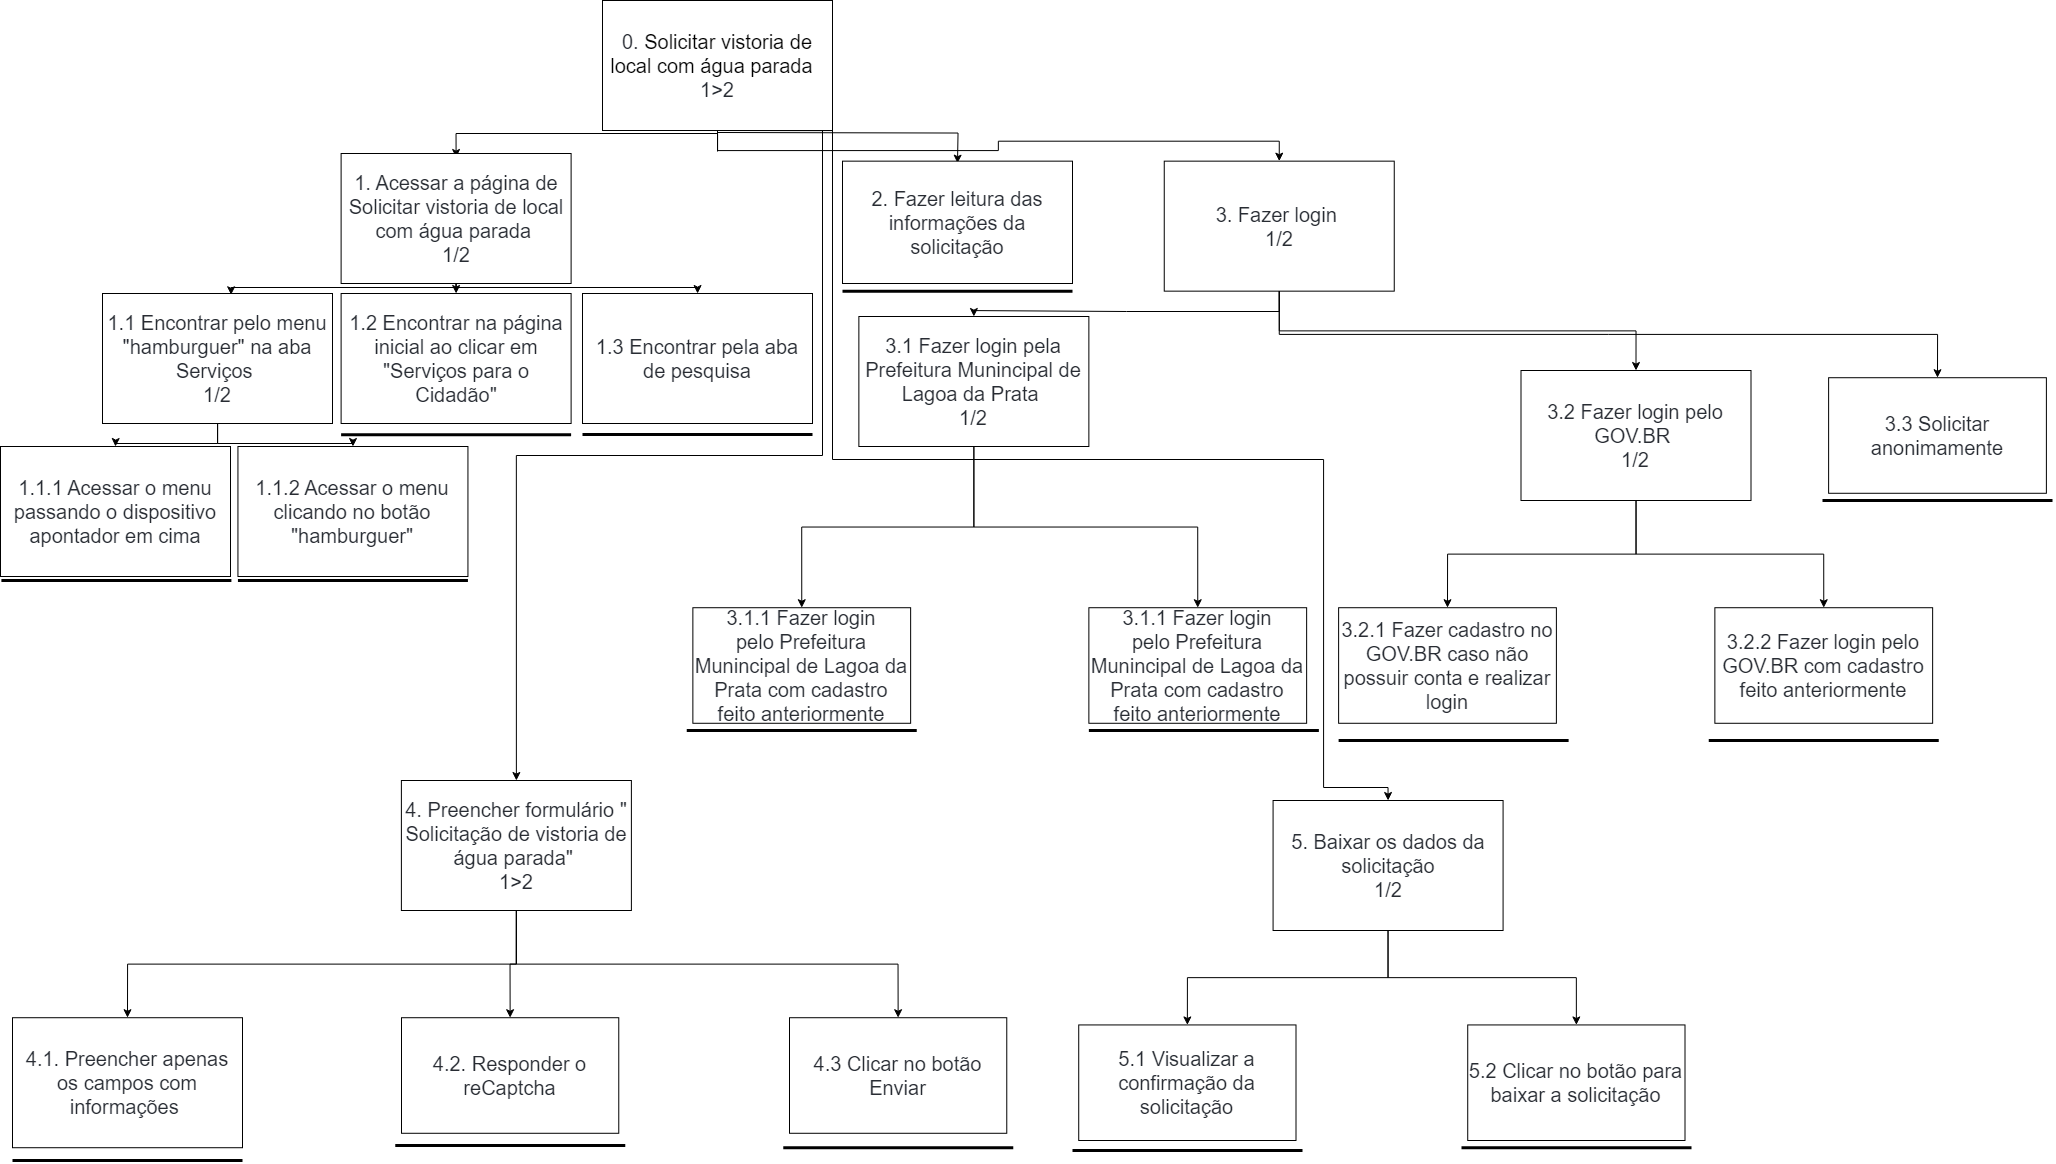
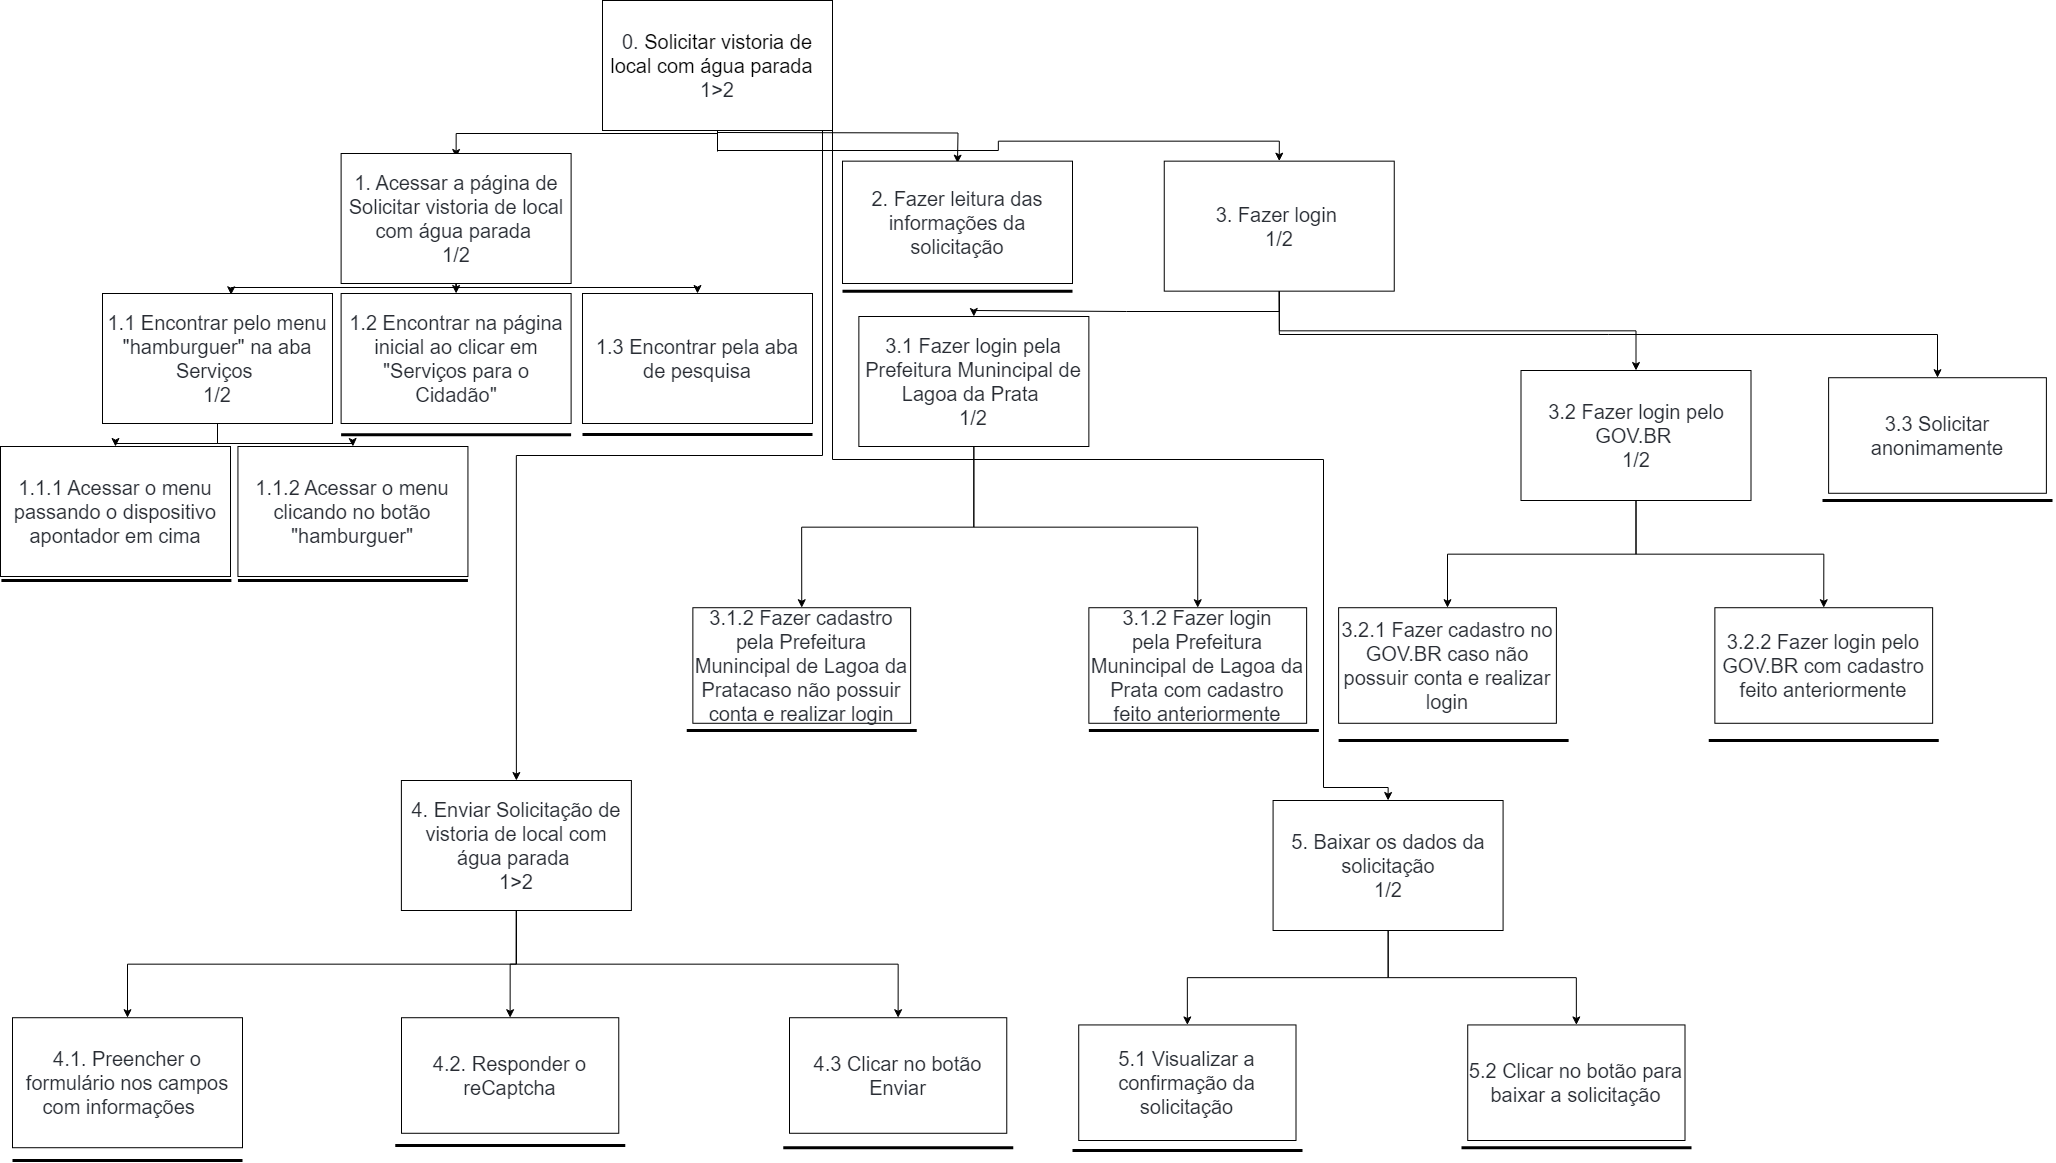
tabela HTA 6 completa

diff --git a/docs/requisitos1/analise-tarefas.md b/docs/requisitos1/analise-tarefas.md
@@ -211,9 +211,31 @@ tarefas que podem ser associadas às personas declaradas. A forma da AHT será u
 ### Análise da Tarefa HTA 6: Solicitar vistoria de local com água parada
 Abaixo se encontra tanto a tabela e diagrama HTA relacionado a Solicitar vistoria de local com água parada, ambos foram elaborados levando em consideração a [persona Maria Arlete](/requisitos1/personas/#maria-arlete) e o [cenario C03](/requisitos1/cenarios/#c03-solicitar-vistoria-de-local-com-agua-parada).
 
-| Objetivos / Operações                                  | Relações | Problemas / Recomendações                                                                                                                                                                                                                                                          |
-| ------------------------------------------------------ | -------- | ---------------------------------------------------------------------------------------------------------------------------------------------------------------------------------------------------------------------------------------------------------------------------------- |
-| 0. Registrar e verificar o panorama de saúde da cidade | 1 > 2    | Input: Acesso ao site de Lagoa da Prata, Credenciais de login (usuário e senha). <br> Plano: Realizar login no site, Navegar para a página de estado de saúde, Registrar estado de saúde, Verificar panorama de saúde da cidade. <br> Feedback: Status do estado de saúde emitido. |
+| Objetivos / Operações                                                                                      | Relações | Problemas / Recomendações                                                                                                                                                                                                                                                                                                               |
+| ---------------------------------------------------------------------------------------------------------- | -------- | --------------------------------------------------------------------------------------------------------------------------------------------------------------------------------------------------------------------------------------------------------------------------------------------------------------------------------------- |
+| **0. Solicitar vistoria de local com água parada**                                                         | 1 > 2    | **input:** formulário de solicitação de vistoria <br> **plano:** acessar a página; ler as informações de uma solicitação; escolher forma de login; enviar a solicitação; baixar a solicitação <br> **feedback:** Nova solicitação aparece aparece para a Secretária de Saúde na lista de solicitações de vistoria de água parada como pendente <br> **recomendação:** status da vistoria ser disponbilizada para pessoa que realizou login e em uma pagina mostrando todas as vistorias realizadas.                                                                                                                                                                                                                                                                                                                                      |
+| **1. Acessar a página de Solicitar vistoria de local com água parada**                                     | 1 / 2    | **ação:** Acessar o menu "hamburguer" ou acessar o menu "serviços para o Cidadão" ou pesquisar na aba de pesquisas                                                                                                                                                                                                                                                                                                                                      |
+| 1.1 Encontrar pelo menu "hamburguer" na aba Serviços                                                       | 1 / 2    | **ação:** Passar o dispositivo apontador por cima do botão para abrir o menu suspenso; ou Clicar no botão para ele abrir                                                                                                                                                                                                                                                                                                                                         |
+| 1.1.1 Acessar o menu passando o dispositivo apontador em cima                                              |          |                                                                                                                                                                                                                                                                                                                                         |
+| 1.1.2 Acessar o menu clicando no botão "hamburguer"                                                        |          |                                                                                                                                                                                                                                                                                                                                         |
+| 1.2 Encontrar na página inicial ao clicar em "Serviços para o Cidadão"                                     |          |                                                                                                                                                                                                                                                                                                                                         |
+| 1.3 Encontrar pela aba de pesquisa                                                                         |          |                                                                                                                                                                                                                                                                                                                                         |
+| **2. Fazer leitura das informações da solicitação**                                                        |          |                                                                                                                                                                                                                                                                                                                                         |
+| **3. Fazer login**                                                                                         | 1 / 2    | **plano:** Login pelo GOV.BR informar CPF e senha ou login pela Prefeitura Munincipal de Lagoa da Prata informar cpf/cnpj/email e senha                                                                                                                                                                                                   |
+| 3.1 Fazer login pela Prefeitura Munincipal de Lagoa da Prata                                               | 1 / 2    | **plano:** Realizar cadastro informando: email, senha, nome completo, CPF, confirmar a declaração da veracidade dos dados; ou realizar login informando CPF ou email e senha                                                                                                                                                                                                                                                                                                                                       |
+| *3.1.1 Fazer login pelo Prefeitura Munincipal de Lagoa da Prata com cadastro feito anteriormente*          |          |                                                                                                                                                                                                                                                                                                                                         |
+| *3.1.2 Fazer cadastro pela Prefeitura Munincipal de Lagoa da Pratacaso não possuir conta e realizar login* |          |                                                                                                                                                                                                                                                                                                                                         |
+| 3.2 Fazer login pelo GOV.BR                                                                                | 1 / 2    |  **plano:** Realizar cadastro informando CPF, realizando HCaptcha, escolher um banco para realizar login; ou Realizar login informando CPF e senha.                                                                                                                                                                                                                                                                                                                                       |
+| *3.2.1 Fazer cadastro no GOV.BR caso não possuir conta e realizar login*                                   |          |                                                                                                                                                                                                                                                                                                                                         |
+| *3.2.2 Fazer login pelo GOV.BR com cadastro feito anteriormente*                                           |          |                                                                                                                                                                                                                                                                                                                                         |
+| 3.3 Solicitar anonimamente                                                                                 |          |                                                                                                                                                                                                                                                                                                                                         |
+| **4. Enviar Solicitação de vistoria de local com água parada**                                             | 1 > 2    | **input:** Preencher os campos: logradouro, número, complemento, CEP, descrição; Selecionar qual tipo de ímovel: residencial, abandonado, desocupado, público, terreno baldio murado, terreo baldio não murado, ferro velho, borracharia, desmanche, recicladoras, cemitérios, obras, parques ou praças, outros; Clicar no botão enviar |
+| 4.1. Preencher o formulário nos campos com informações                                                     |          |                                                                                                                                                                                                                                                                                                                                         |
+| 4.2. Responder o reCaptcha                                                                                 |          |                                                                                                                                                                                                                                                                                                                                         |
+| 4.3 Clicar no botão Enviar                                                                                 |          |                                                                                                                                                                                                                                                                                                                                         |
+| **5. Baixar os dados da solicitação**                                                                      | 1 / 2    | **plano:** Visualizar a solicitação, logo depois baixar a solicitação                                                                                                                                                                                                                                                                   |
+| 5.1 Visualizar a confirmação da solicitação                                                                |          |                                                                                                                                                                                                                                                                                                                                         |
+| 5.2 Clicar no botão para baixar a solicitação                                                              |          |                                                                                                                                                                                                                                                                                                                                         |
 
 <div align="center">
 <p> <b>Tabela 7</b>: HTA da Tarefa: Solicitar vistoria de local com água parada (Fonte: DOURADO, Pedro Lucas. 2024). </p>
@@ -581,4 +603,4 @@ Goal 0: Informar luminária queimada no Município
 | 10/05/2024 | `1.6`  | Edição de Análise de Tarefa e correção pós entrega ponto de controle 2 | [Lucas Meireles](https://github.com/Katuner)  |   13/05/2024    |                        [Pedro Lucas](https://github.com/lucasdray)                        |
 | 22/05/2024 | `1.7`  |                  Adição de Análise de Tarefas 6 e HTA                  |  [Lucas Heler](https://github.com/Akaeboshi)  |   22/05/2024    |                       [Cainã Freitas](https://github.com/freitasc)                        |
 | 22/05/2024 | `1.8`  |                            Adição de tarefa                            | [Joyce Dionizio](https://github.com/joycejdm) |   22/05/2024    | [Cainã Freitas](https://github.com/freitasc), [Pedro Lucas](https://github.com/lucasdray) |
-| 06/06/2024 | `2.0`  |                      Adição de HTA 6 e CNM-GOMS 7                      |  [Pedro Lucas](https://github.com/lucasdray)  |                 |                                                                                           |
+| 06/06/2024 | `2.0`  |                            Adição de HTA 6                             |  [Pedro Lucas](https://github.com/lucasdray)  |                 |                                                                                           |
